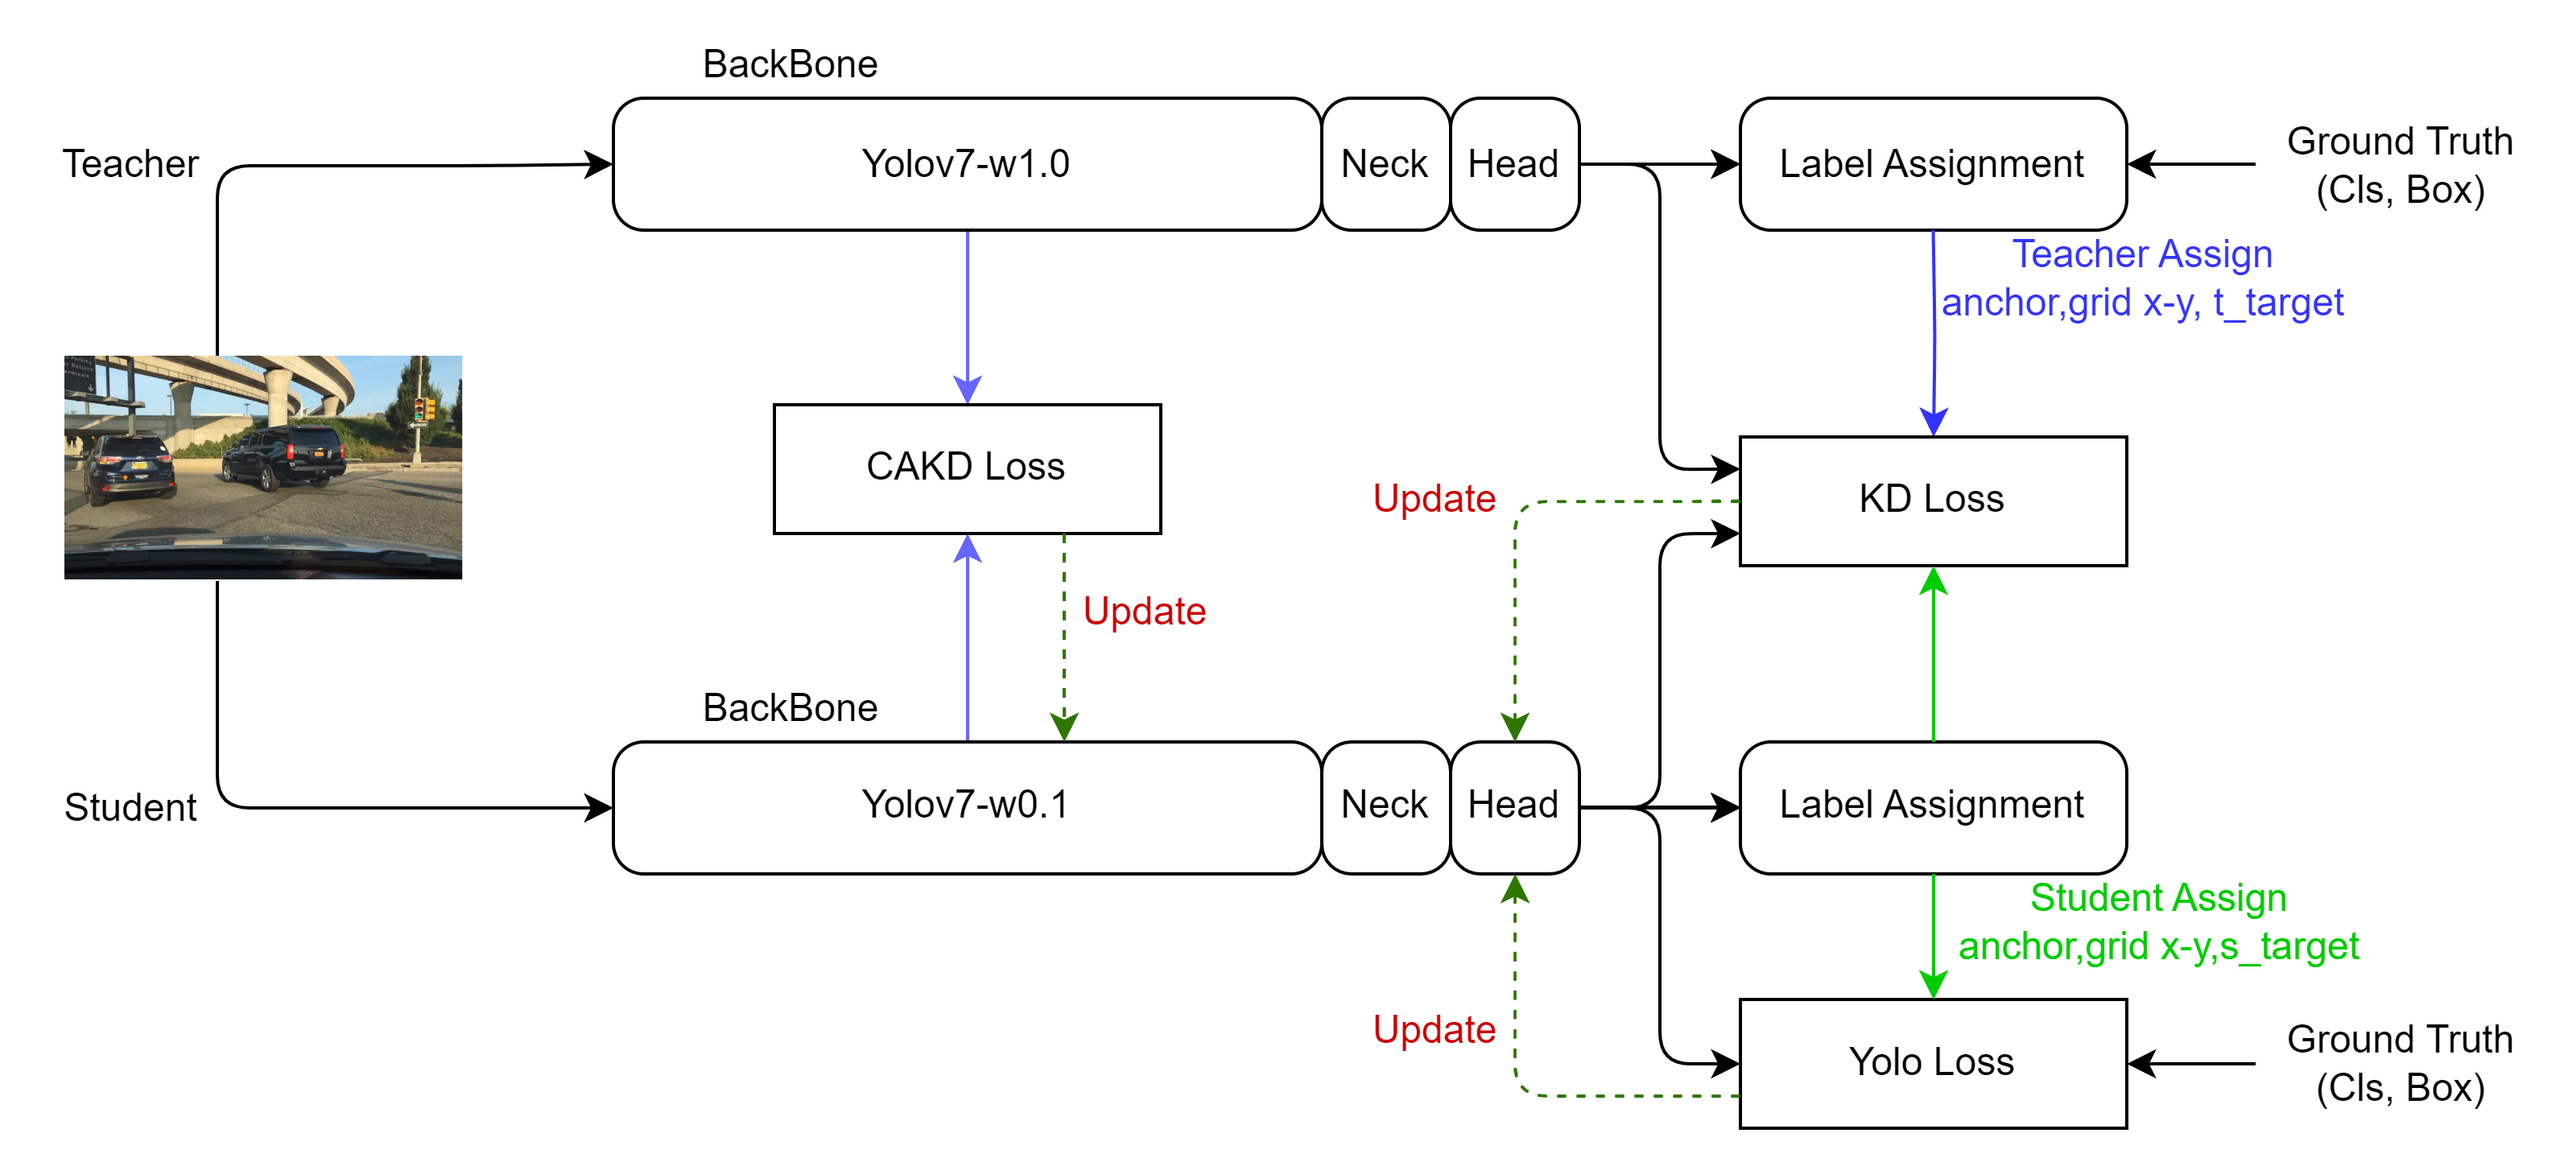
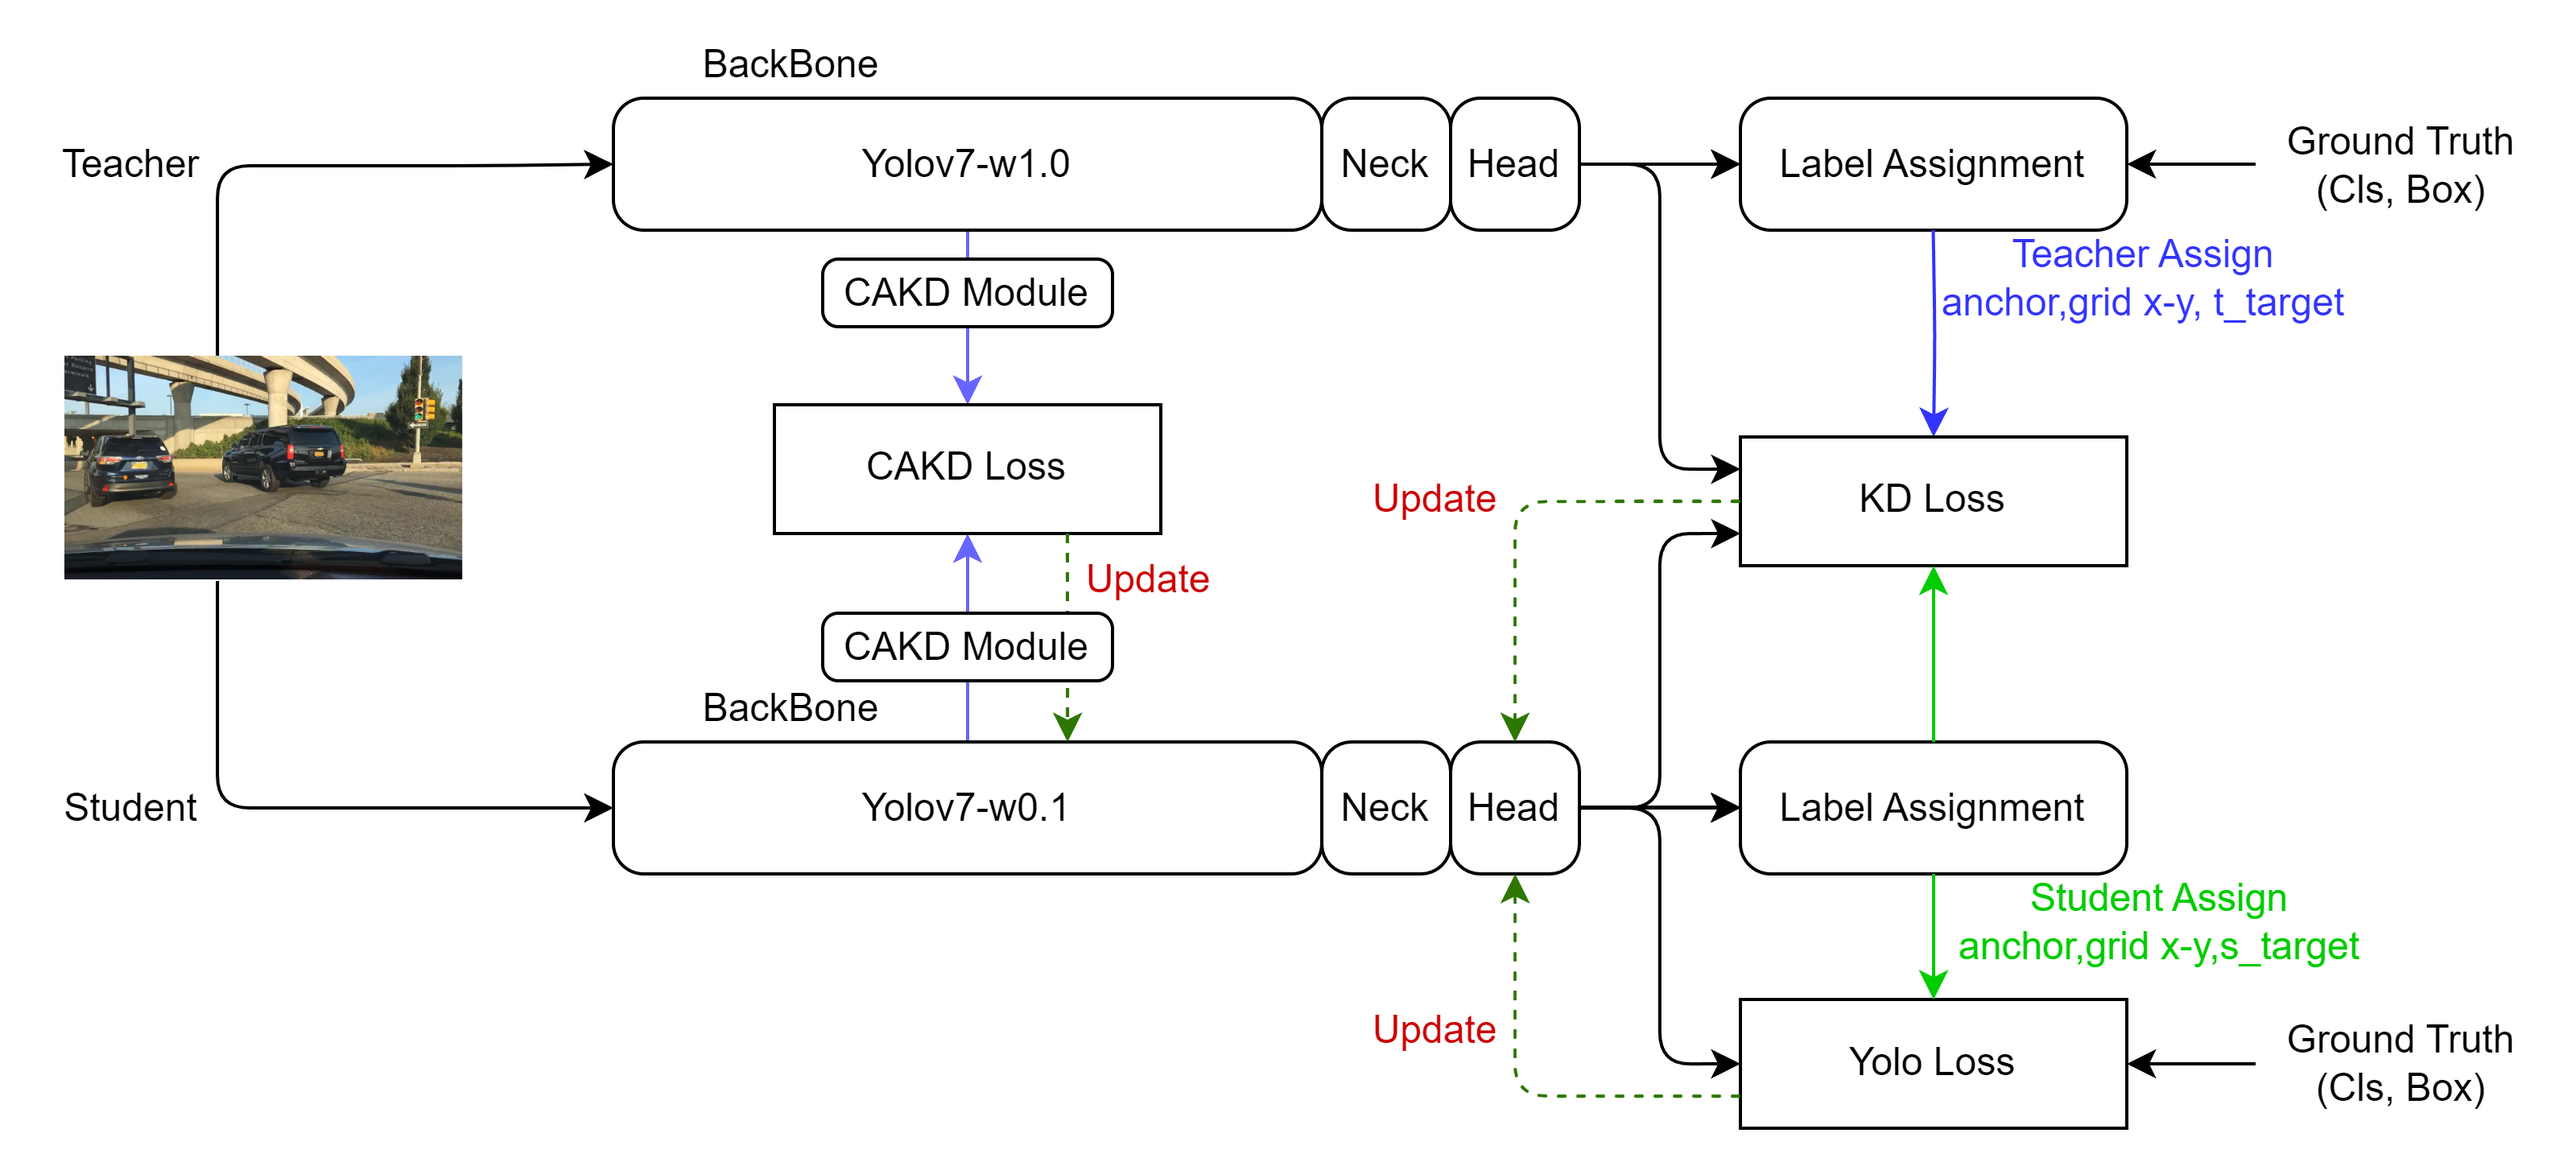
Site updated: 2023-10-02 21:43:57

diff --git a/2023/09/22/KnowledgeDistillation-On-Yolov7/index.html b/2023/09/22/KnowledgeDistillation-On-Yolov7/index.html
@@ -29,11 +29,12 @@
 <meta property="og:locale" content="en_US">
 <meta property="og:image" content="http://example.com/images/KnowledgeDistillation-On-Yolov7/yolov7_arch.png">
 <meta property="og:image" content="http://example.com/images/KnowledgeDistillation-On-Yolov7/yolov7_sub_arch.png">
+<meta property="og:image" content="http://example.com/images/KnowledgeDistillation-On-Yolov7/kd_arch.png">
 <meta property="og:image" content="http://example.com/images/KnowledgeDistillation-On-Yolov7/CAKD.png">
 <meta property="og:image" content="http://example.com/images/KnowledgeDistillation-On-Yolov7/CKD.png">
-<meta property="og:image" content="http://example.com/images/KnowledgeDistillation-On-Yolov7/kd_arch.png">
+<meta property="og:image" content="http://example.com/images/KnowledgeDistillation-On-Yolov7/YOLOv7_result.png">
 <meta property="article:published_time" content="2023-09-22T07:20:19.000Z">
-<meta property="article:modified_time" content="2023-10-02T11:37:20.529Z">
+<meta property="article:modified_time" content="2023-10-02T13:43:45.474Z">
 <meta property="article:author" content="YuMingChang">
 <meta name="twitter:card" content="summary">
 <meta name="twitter:image" content="http://example.com/images/KnowledgeDistillation-On-Yolov7/yolov7_arch.png">
@@ -201,7 +202,7 @@
                   <i class="far fa-calendar-check"></i>
                 </span>
                 <span class="post-meta-item-text">Edited on</span>
-                <time title="Modified: 2023-10-02 19:37:20" itemprop="dateModified" datetime="2023-10-02T19:37:20+08:00">2023-10-02</time>
+                <time title="Modified: 2023-10-02 21:43:45" itemprop="dateModified" datetime="2023-10-02T21:43:45+08:00">2023-10-02</time>
               </span>
 
           
@@ -227,14 +228,21 @@
 <p>以下為YOLOv7使用的小模組。</p>
 <ul>
 <li>CBS為convolution、Batchnorm以及SiLU的組合。</li>
-<li>ELAN為YOLOv7提出架構，藉由concate不同層級的Conv輸出的特徵層來進行訓練。</li>
+<li>ELAN為YOLOv7提出架構，藉由concate不同層級的Conv輸出的</li>
 </ul>
 <p><img src="/images/KnowledgeDistillation-On-Yolov7/yolov7_sub_arch.png" alt="img.png"></p>
-<h2 id="訓練方法"><a href="#訓練方法" class="headerlink" title="訓練方法"></a>訓練方法</h2><p><img src="/images/KnowledgeDistillation-On-Yolov7/CAKD.png" alt="CAKD.png"></p>
-<p><img src="/images/KnowledgeDistillation-On-Yolov7/CKD.png" alt="CKD.png"></p>
-<p><img src="/images/KnowledgeDistillation-On-Yolov7/kd_arch.png" alt="img.png"></p>
-<p>重作一張知識蒸餾圖片</p>
-<h2 id="結果"><a href="#結果" class="headerlink" title="結果"></a>結果</h2>
+<h2 id="訓練方法"><a href="#訓練方法" class="headerlink" title="訓練方法"></a>訓練方法</h2><p>我們所使用的知識蒸餾方法為Feature以及Logit KD，首先輸出一張影像進入到老師與學生網路，得到其中間層輸出的特徵層以及輸出，接著將中間輸出的特徵層通過CAKD Module，並計算CAKD Loss，接著將輸出計算KD Loss，以及學生的輸出計算Supervised Loss，最後將所有損失函數加總起來，並反向傳播到學生網路。</p>
+<p><img src="/images/KnowledgeDistillation-On-Yolov7/kd_arch.png" alt="kd_arch.png"></p>
+<p>我們設計了一個簡單的交叉注意力機制，首先將老師與學生網路特徵層攤平，接著進行矩陣乘法後通過softmax，變得到了一張Attention map接著再將老師特徵圖再乘過去，這樣的設計目的為先得到一張老師對學生特徵圖的Attention map，接著將老師不同通道特徵透Attention map中的權重進行線性組合，再與學生特徵去進行損失函數的計算。<br><img src="/images/KnowledgeDistillation-On-Yolov7/CAKD.png" alt="CAKD.png"></p>
+<p>接著我們使用Customized KD方法，基本概念就是在計算除了Supervised Loss以外了Loss，再更新前去計算其梯度的相似程度，由於監督式學習仰賴標籤來進行訓練，因此來額外的其他Loss函數的梯度與Supervised Loss梯度的相似度，如果其更新方向大於90度變代表加入這個Loss以後並沒有幫助到學習。<br><img src="/images/KnowledgeDistillation-On-Yolov7/CKD.png" alt="CKD.png"></p>
+<h2 id="結果"><a href="#結果" class="headerlink" title="結果"></a>結果</h2><p>在我們的實現數據中，對比了只使用Supervised learning以及KD的結果，結果顯示使用Customized KD以及注意力機制KD可以將𝑚𝐴𝑃0.5和𝑚𝐴𝑃0.5:0.95分別提升2.78%和0.96%。<br><img src="/images/KnowledgeDistillation-On-Yolov7/YOLOv7_result.png" alt="YOLOv7_result.png"></p>
+<h2 id="參考"><a href="#參考" class="headerlink" title="參考"></a>參考</h2><blockquote>
+<p>Zhu, Yichen, and Yi Wang. “Student customized knowledge distillation: Bridging the gap between student and teacher.” Proceedings of the IEEE&#x2F;CVF International Conference on Computer Vision. 2021.</p>
+</blockquote>
+<blockquote>
+<p>Wang, Chien-Yao, Alexey Bochkovskiy, and Hong-Yuan Mark Liao. “YOLOv7: Trainable bag-of-freebies sets new state-of-the-art for real-time object detectors.” Proceedings of the IEEE&#x2F;CVF Conference on Computer Vision and Pattern Recognition. 2023.</p>
+</blockquote>
+
     </div>
 
     
@@ -314,7 +322,7 @@
 
       <!--noindex-->
       <div class="post-toc-wrap sidebar-panel">
-          <div class="post-toc motion-element"><ol class="nav"><li class="nav-item nav-level-1"><a class="nav-link" href="#%E4%BD%BF%E7%94%A8%E7%9F%A5%E8%AD%98%E8%92%B8%E9%A4%BE%E6%96%BCYOLOv7%E8%BC%95%E9%87%8F%E5%8C%96%E6%A8%A1%E5%9E%8B"><span class="nav-number">1.</span> <span class="nav-text">使用知識蒸餾於YOLOv7輕量化模型</span></a><ol class="nav-child"><li class="nav-item nav-level-2"><a class="nav-link" href="#%E6%A6%82%E8%BF%B0"><span class="nav-number">1.1.</span> <span class="nav-text">概述</span></a></li><li class="nav-item nav-level-2"><a class="nav-link" href="#%E7%B6%B2%E8%B7%AF%E6%9E%B6%E6%A7%8B"><span class="nav-number">1.2.</span> <span class="nav-text">網路架構</span></a></li><li class="nav-item nav-level-2"><a class="nav-link" href="#%E8%A8%93%E7%B7%B4%E6%96%B9%E6%B3%95"><span class="nav-number">1.3.</span> <span class="nav-text">訓練方法</span></a></li><li class="nav-item nav-level-2"><a class="nav-link" href="#%E7%B5%90%E6%9E%9C"><span class="nav-number">1.4.</span> <span class="nav-text">結果</span></a></li></ol></li></ol></div>
+          <div class="post-toc motion-element"><ol class="nav"><li class="nav-item nav-level-1"><a class="nav-link" href="#%E4%BD%BF%E7%94%A8%E7%9F%A5%E8%AD%98%E8%92%B8%E9%A4%BE%E6%96%BCYOLOv7%E8%BC%95%E9%87%8F%E5%8C%96%E6%A8%A1%E5%9E%8B"><span class="nav-number">1.</span> <span class="nav-text">使用知識蒸餾於YOLOv7輕量化模型</span></a><ol class="nav-child"><li class="nav-item nav-level-2"><a class="nav-link" href="#%E6%A6%82%E8%BF%B0"><span class="nav-number">1.1.</span> <span class="nav-text">概述</span></a></li><li class="nav-item nav-level-2"><a class="nav-link" href="#%E7%B6%B2%E8%B7%AF%E6%9E%B6%E6%A7%8B"><span class="nav-number">1.2.</span> <span class="nav-text">網路架構</span></a></li><li class="nav-item nav-level-2"><a class="nav-link" href="#%E8%A8%93%E7%B7%B4%E6%96%B9%E6%B3%95"><span class="nav-number">1.3.</span> <span class="nav-text">訓練方法</span></a></li><li class="nav-item nav-level-2"><a class="nav-link" href="#%E7%B5%90%E6%9E%9C"><span class="nav-number">1.4.</span> <span class="nav-text">結果</span></a></li><li class="nav-item nav-level-2"><a class="nav-link" href="#%E5%8F%83%E8%80%83"><span class="nav-number">1.5.</span> <span class="nav-text">參考</span></a></li></ol></li></ol></div>
       </div>
       <!--/noindex-->
 

diff --git a/index.html b/index.html
@@ -266,7 +266,7 @@
                   <i class="far fa-calendar-check"></i>
                 </span>
                 <span class="post-meta-item-text">Edited on</span>
-                <time title="Modified: 2023-10-02 19:37:20" itemprop="dateModified" datetime="2023-10-02T19:37:20+08:00">2023-10-02</time>
+                <time title="Modified: 2023-10-02 21:43:45" itemprop="dateModified" datetime="2023-10-02T21:43:45+08:00">2023-10-02</time>
               </span>
 
           

diff --git a/css/main.css b/css/main.css
@@ -1193,7 +1193,7 @@ pre .javascript .function {
 }
 .links-of-author a::before,
 .links-of-author span.exturl::before {
-  background: #ff40b9;
+  background: #301d62;
   border-radius: 50%;
   content: ' ';
   display: inline-block;
